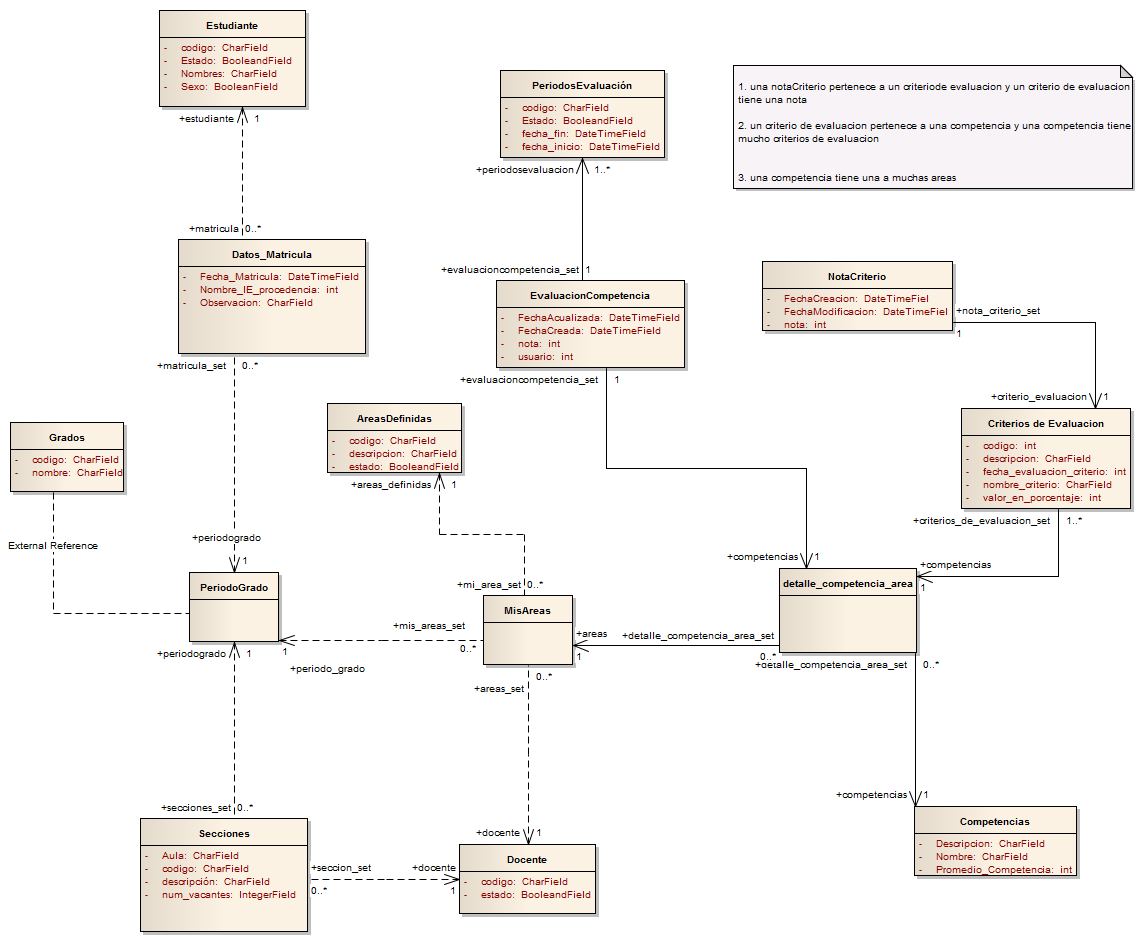
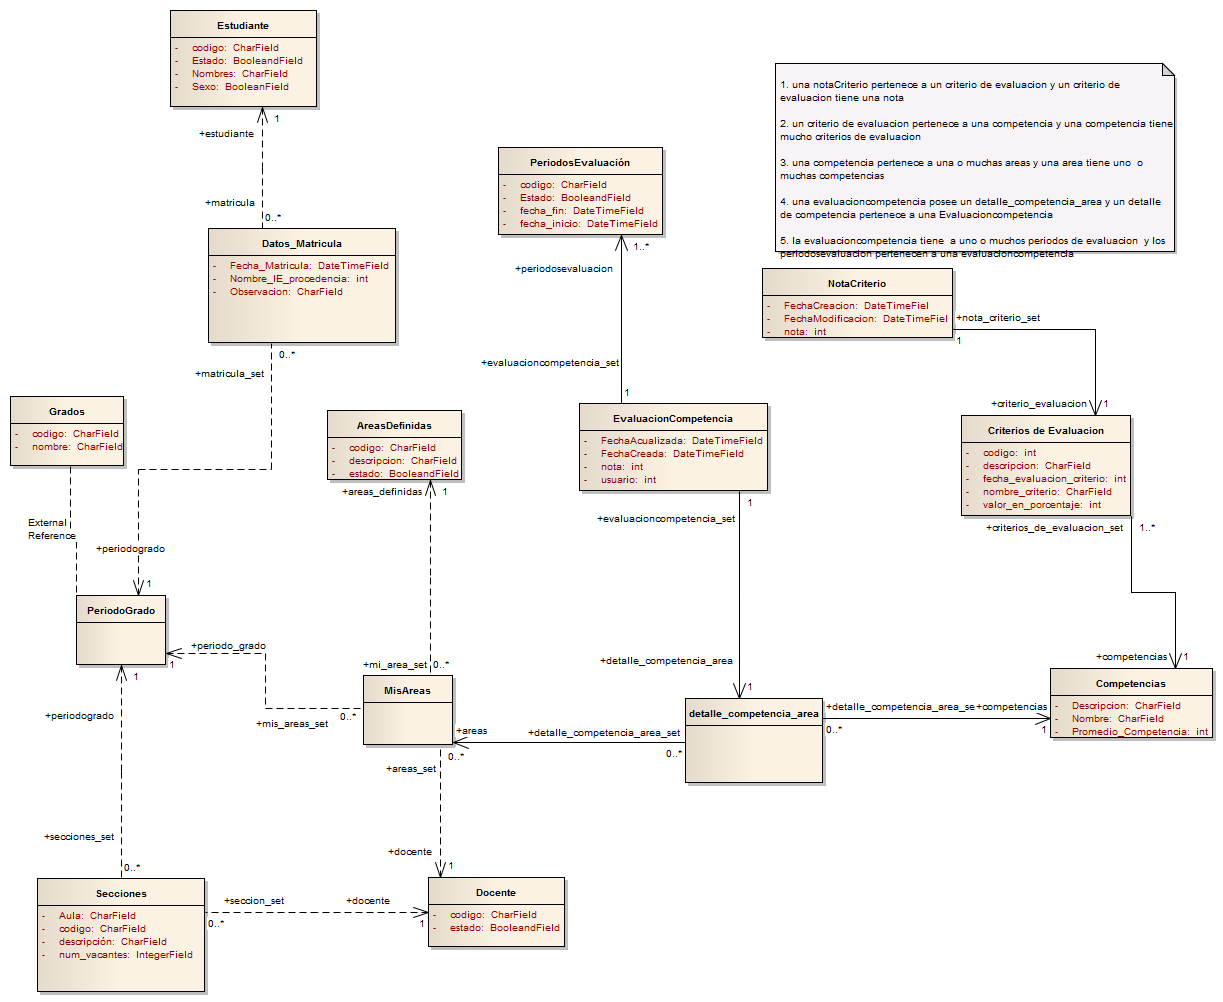
sssss

diff --git a/EARoot/EA1/EA1/EA2/EA35.htm b/EARoot/EA1/EA1/EA2/EA35.htm
@@ -82,28 +82,6 @@ function initPage(src) {
 			</tr>
 			<tr>
 				<td class="TableRowBottomDashed"  colspan="1">
-					<div class="DetailsDivParent"><img src="../../../../images/minus03.gif" align="absmiddle" id="DetailsImageAttributes42" onclick="parent.toggleDiv('detailsDIVAttributes42','DetailsImageAttributes42')" />Details:
-						<div id="detailsDIVAttributes42" class="DetailsDiv" >
-						<i></i>&nbsp;
-						</div>
-					</div>
-				</td>
-			</tr>			<tr>
-				<td width="100%" class="TableRow" valign="top"><i>private CharField</i><br /><strong>&nbsp;&nbsp;descripcion</strong></td>
-			</tr>
-			<tr>
-				<td class="TableRowBottomDashed"  colspan="1">
-					<div class="DetailsDivParent"><img src="../../../../images/minus03.gif" align="absmiddle" id="DetailsImageAttributes43" onclick="parent.toggleDiv('detailsDIVAttributes43','DetailsImageAttributes43')" />Details:
-						<div id="detailsDIVAttributes43" class="DetailsDiv" >
-						<i></i>&nbsp;
-						</div>
-					</div>
-				</td>
-			</tr>			<tr>
-				<td width="100%" class="TableRow" valign="top"><i>private int</i><br /><strong>&nbsp;&nbsp;fecha_evaluacion_criterio</strong></td>
-			</tr>
-			<tr>
-				<td class="TableRowBottomDashed"  colspan="1">
 					<div class="DetailsDivParent"><img src="../../../../images/minus03.gif" align="absmiddle" id="DetailsImageAttributes44" onclick="parent.toggleDiv('detailsDIVAttributes44','DetailsImageAttributes44')" />Details:
 						<div id="detailsDIVAttributes44" class="DetailsDiv" >
 						<i></i>&nbsp;
@@ -111,7 +89,7 @@ function initPage(src) {
 					</div>
 				</td>
 			</tr>			<tr>
-				<td width="100%" class="TableRow" valign="top"><i>private CharField</i><br /><strong>&nbsp;&nbsp;nombre_criterio</strong></td>
+				<td width="100%" class="TableRow" valign="top"><i>private CharField</i><br /><strong>&nbsp;&nbsp;descripcion</strong></td>
 			</tr>
 			<tr>
 				<td class="TableRowBottomDashed"  colspan="1">
@@ -122,12 +100,34 @@ function initPage(src) {
 					</div>
 				</td>
 			</tr>			<tr>
-				<td width="100%" class="TableRow" valign="top"><i>private int</i><br /><strong>&nbsp;&nbsp;valor_en_porcentaje</strong></td>
+				<td width="100%" class="TableRow" valign="top"><i>private int</i><br /><strong>&nbsp;&nbsp;fecha_evaluacion_criterio</strong></td>
 			</tr>
 			<tr>
 				<td class="TableRowBottomDashed"  colspan="1">
 					<div class="DetailsDivParent"><img src="../../../../images/minus03.gif" align="absmiddle" id="DetailsImageAttributes46" onclick="parent.toggleDiv('detailsDIVAttributes46','DetailsImageAttributes46')" />Details:
 						<div id="detailsDIVAttributes46" class="DetailsDiv" >
+						<i></i>&nbsp;
+						</div>
+					</div>
+				</td>
+			</tr>			<tr>
+				<td width="100%" class="TableRow" valign="top"><i>private CharField</i><br /><strong>&nbsp;&nbsp;nombre_criterio</strong></td>
+			</tr>
+			<tr>
+				<td class="TableRowBottomDashed"  colspan="1">
+					<div class="DetailsDivParent"><img src="../../../../images/minus03.gif" align="absmiddle" id="DetailsImageAttributes47" onclick="parent.toggleDiv('detailsDIVAttributes47','DetailsImageAttributes47')" />Details:
+						<div id="detailsDIVAttributes47" class="DetailsDiv" >
+						<i></i>&nbsp;
+						</div>
+					</div>
+				</td>
+			</tr>			<tr>
+				<td width="100%" class="TableRow" valign="top"><i>private int</i><br /><strong>&nbsp;&nbsp;valor_en_porcentaje</strong></td>
+			</tr>
+			<tr>
+				<td class="TableRowBottomDashed"  colspan="1">
+					<div class="DetailsDivParent"><img src="../../../../images/minus03.gif" align="absmiddle" id="DetailsImageAttributes48" onclick="parent.toggleDiv('detailsDIVAttributes48','DetailsImageAttributes48')" />Details:
+						<div id="detailsDIVAttributes48" class="DetailsDiv" >
 						<i></i>&nbsp;
 						</div>
 					</div>
@@ -144,7 +144,7 @@ function initPage(src) {
 				</tr>
 				<tr>
 					<td width="40%" class="TableRow" valign="top">
-						<a href="EA37.htm">detalle_competencia_area</a><br />
+						<a href="EA34.htm">Competencias</a><br />
 						Clase &nbsp;
 					</td>
 					<td width="30%" class="TableRow" valign="top">
@@ -158,8 +158,8 @@ function initPage(src) {
 				</tr>
 				<tr>
 					<td class="TableRowBottomDashed"  colspan="3">
-						<div class="DetailsDivParent"><img src="../../../../images/minus03.gif" align="absmiddle" id="DetailsImageLink48" onclick="parent.toggleDiv('detailsDIVLink48','DetailsImageLink48')" />Details:
-							<div id="detailsDIVLink48" class="DetailsDiv" >
+						<div class="DetailsDivParent"><img src="../../../../images/minus03.gif" align="absmiddle" id="DetailsImageLink50" onclick="parent.toggleDiv('detailsDIVLink50','DetailsImageLink50')" />Details:
+							<div id="detailsDIVLink50" class="DetailsDiv" >
 							&nbsp;
 							</div>
 						</div>
@@ -191,8 +191,8 @@ function initPage(src) {
 				</tr>
 				<tr>
 					<td class="TableRowBottomDashed"  colspan="3">
-						<div class="DetailsDivParent"><img src="../../../../images/minus03.gif" align="absmiddle" id="DetailsImageLink49" onclick="parent.toggleDiv('detailsDIVLink49','DetailsImageLink49')" />Details:
-							<div id="detailsDIVLink49" class="DetailsDiv" >
+						<div class="DetailsDivParent"><img src="../../../../images/minus03.gif" align="absmiddle" id="DetailsImageLink51" onclick="parent.toggleDiv('detailsDIVLink51','DetailsImageLink51')" />Details:
+							<div id="detailsDIVLink51" class="DetailsDiv" >
 							&nbsp;
 							</div>
 						</div>

diff --git a/EARoot/EA1/EA1/EA2/EA37.htm b/EARoot/EA1/EA1/EA2/EA37.htm
@@ -93,8 +93,8 @@ function initPage(src) {
 				</tr>
 				<tr>
 					<td class="TableRowBottomDashed"  colspan="3">
-						<div class="DetailsDivParent"><img src="../../../../images/minus03.gif" align="absmiddle" id="DetailsImageLink51" onclick="parent.toggleDiv('detailsDIVLink51','DetailsImageLink51')" />Details:
-							<div id="detailsDIVLink51" class="DetailsDiv" >
+						<div class="DetailsDivParent"><img src="../../../../images/minus03.gif" align="absmiddle" id="DetailsImageLink53" onclick="parent.toggleDiv('detailsDIVLink53','DetailsImageLink53')" />Details:
+							<div id="detailsDIVLink53" class="DetailsDiv" >
 							&nbsp;
 							</div>
 						</div>
@@ -116,8 +116,8 @@ function initPage(src) {
 				</tr>
 				<tr>
 					<td class="TableRowBottomDashed"  colspan="3">
-						<div class="DetailsDivParent"><img src="../../../../images/minus03.gif" align="absmiddle" id="DetailsImageLink53" onclick="parent.toggleDiv('detailsDIVLink53','DetailsImageLink53')" />Details:
-							<div id="detailsDIVLink53" class="DetailsDiv" >
+						<div class="DetailsDivParent"><img src="../../../../images/minus03.gif" align="absmiddle" id="DetailsImageLink55" onclick="parent.toggleDiv('detailsDIVLink55','DetailsImageLink55')" />Details:
+							<div id="detailsDIVLink55" class="DetailsDiv" >
 							&nbsp;
 							</div>
 						</div>
@@ -143,37 +143,14 @@ function initPage(src) {
 						&nbsp;
 					</td>
 					<td width="30%" class="TableRow" valign="top">
-						<strong>Name:</strong> competencias<br />
+						<strong>Name:</strong> detalle_competencia_area<br />
 						&nbsp;	
 					</td>
 				</tr>
 				<tr>
 					<td class="TableRowBottomDashed"  colspan="3">
-						<div class="DetailsDivParent"><img src="../../../../images/minus03.gif" align="absmiddle" id="DetailsImageLink56" onclick="parent.toggleDiv('detailsDIVLink56','DetailsImageLink56')" />Details:
-							<div id="detailsDIVLink56" class="DetailsDiv" >
-							&nbsp;
-							</div>
-						</div>
-					</td>
-				</tr>
-				<tr>
-					<td width="40%" class="TableRow" valign="top">
-						<a href="EA35.htm">Criterios de Evaluacion</a><br />
-						Clase &nbsp;
-					</td>
-					<td width="30%" class="TableRow" valign="top">
-						<strong>Name:</strong> criterios_de_evaluacion_set<br />
-						&nbsp;
-					</td>
-					<td width="30%" class="TableRow" valign="top">
-						<strong>Name:</strong> competencias<br />
-						&nbsp;	
-					</td>
-				</tr>
-				<tr>
-					<td class="TableRowBottomDashed"  colspan="3">
-						<div class="DetailsDivParent"><img src="../../../../images/minus03.gif" align="absmiddle" id="DetailsImageLink58" onclick="parent.toggleDiv('detailsDIVLink58','DetailsImageLink58')" />Details:
-							<div id="detailsDIVLink58" class="DetailsDiv" >
+						<div class="DetailsDivParent"><img src="../../../../images/minus03.gif" align="absmiddle" id="DetailsImageLink57" onclick="parent.toggleDiv('detailsDIVLink57','DetailsImageLink57')" />Details:
+							<div id="detailsDIVLink57" class="DetailsDiv" >
 							&nbsp;
 							</div>
 						</div>

diff --git a/EARoot/EA1/EA1/EA2/EA31.htm b/EARoot/EA1/EA1/EA2/EA31.htm
@@ -19,21 +19,21 @@ function initPage(src) {
 <img src="EA32.png" usemap="#EA32" border="0" />
 
 <MAP NAME="EA32">
-<area shape="rect" coords="779,568,917,653" href="EA37.htm">
-<area shape="rect" coords="327,403,462,473" href="../EA4/EA1/EA68.htm">
-<area shape="rect" coords="189,572,279,642" href="../EA4/EA1/EA84.htm">
-<area shape="rect" coords="733,65,1132,188" href="EA33.htm">
-<area shape="rect" coords="762,261,953,331" href="EA40.htm">
-<area shape="rect" coords="496,280,685,368" href="EA39.htm">
-<area shape="rect" coords="159,10,306,107" href="../EA4/EA1/EA77.htm">
-<area shape="rect" coords="10,422,124,492" href="../EA4/EA1/EA78.htm">
-<area shape="rect" coords="140,818,308,932" href="../EA4/EA1/EA87.htm">
-<area shape="rect" coords="459,844,596,914" href="../EA4/EA1/EA76.htm">
-<area shape="rect" coords="500,70,665,158" href="../EA4/EA1/EA85.htm">
-<area shape="rect" coords="178,239,366,354" href="../EA1/EA1/EA22.htm">
-<area shape="rect" coords="961,408,1131,509" href="EA35.htm">
-<area shape="rect" coords="914,806,1077,876" href="EA34.htm">
-<area shape="rect" coords="483,595,573,665" href="../EA4/EA1/EA81.htm">
+<area shape="rect" coords="685,698,823,783" href="EA37.htm">
+<area shape="rect" coords="327,410,462,480" href="../EA4/EA1/EA68.htm">
+<area shape="rect" coords="76,595,166,665" href="../EA4/EA1/EA84.htm">
+<area shape="rect" coords="775,63,1174,251" href="EA33.htm">
+<area shape="rect" coords="762,268,953,338" href="EA40.htm">
+<area shape="rect" coords="579,403,768,491" href="EA39.htm">
+<area shape="rect" coords="170,10,317,107" href="../EA4/EA1/EA77.htm">
+<area shape="rect" coords="10,396,124,466" href="../EA4/EA1/EA78.htm">
+<area shape="rect" coords="37,878,205,992" href="../EA4/EA1/EA87.htm">
+<area shape="rect" coords="428,877,565,947" href="../EA4/EA1/EA76.htm">
+<area shape="rect" coords="498,147,663,235" href="../EA4/EA1/EA85.htm">
+<area shape="rect" coords="208,228,396,343" href="../EA1/EA1/EA22.htm">
+<area shape="rect" coords="961,415,1131,516" href="EA35.htm">
+<area shape="rect" coords="1050,668,1213,738" href="EA34.htm">
+<area shape="rect" coords="363,675,453,745" href="../EA4/EA1/EA81.htm">
 </MAP>
 
 	<div class="ObjectTitle">Notas y cursos : lógico diagram</div>
@@ -44,7 +44,7 @@ function initPage(src) {
 		</tr>
 		<tr>
 			<td width="15%" class="ObjectDetailsTopic">Modified:</td>
-			<td width="85%" class="ObjectDetailsValue">12/09/2017 09:51:29 p.m.</td>
+			<td width="85%" class="ObjectDetailsValue">13/09/2017 08:51:08 a.m.</td>
 		</tr>
 		<tr style="padding-top: 10px;">
 			<td width="15%" class="ObjectDetailsTopic"><img src="../../../../images/plus03.gif" align="absmiddle" id="proj" onclick="parent.toggleData(this.id)" />Project:</td>

diff --git a/EARoot/EA1/EA1/EA2/EA33.htm b/EARoot/EA1/EA1/EA2/EA33.htm
@@ -24,7 +24,7 @@ function initPage(src) {
 		</tr>
 		<tr>
 			<td class="ObjectDetailsTopic">Modified:</td>
-			<td class="ObjectDetailsValue">12/09/2017 05:36:58 p.m.</td>
+			<td class="ObjectDetailsValue">13/09/2017 08:45:47 a.m.</td>
 		</tr>
 		<tr style="height: 10px"><td colspan="2"></td></tr>
 		<tr>
@@ -64,7 +64,7 @@ function initPage(src) {
 			<td class="ObjectDetailsValue"><a href="EA31.htm">Notas y cursos</a></td>
 		</tr>
 	</table>
-	<div class="ObjectDetailsNotes">&lt;p&gt;1. una notaCriterio pertenece a un criteriode evaluacion y un criterio de evaluacion tiene una nota &lt;br /&gt;&lt;/p&gt;&lt;p&gt;&lt;br /&gt;&lt;/p&gt;&lt;p&gt;2. un criterio de evaluacion pertenece a una competencia y una competencia tiene mucho criterios de evaluacion&lt;br /&gt;&lt;/p&gt;&lt;p&gt;&lt;br /&gt;&lt;/p&gt;&lt;p&gt;&lt;br /&gt;&lt;/p&gt;&lt;p&gt;3. una competencia tiene una a muchas areas &lt;br /&gt;&lt;/p&gt;</div>
+	<div class="ObjectDetailsNotes">&lt;p&gt;1. una notaCriterio pertenece a un criterio de evaluacion y un criterio de evaluacion tiene una nota &lt;br /&gt;&lt;/p&gt;&lt;p&gt;&lt;br /&gt;&lt;/p&gt;&lt;p&gt;2. un criterio de evaluacion pertenece a una competencia y una competencia tiene mucho criterios de evaluacion&lt;br /&gt;&lt;/p&gt;&lt;p&gt;&lt;br /&gt;&lt;/p&gt;&lt;p&gt;3. una competencia pertenece a una o muchas areas y una area tiene uno&#160; o muchas competencias&lt;br /&gt;&lt;/p&gt;&lt;p&gt;&lt;br /&gt;&lt;/p&gt;&lt;p&gt;4. una evaluacioncompetencia posee un detalle_competencia_area y un detalle de competencia pertenece a una Evaluacioncompetencia&lt;br /&gt;&lt;/p&gt;&lt;p&gt;&lt;br /&gt;&lt;/p&gt;&lt;p&gt;5. la evaluacioncompetencia tiene&#160; a uno o muchos periodos de evaluacion&#160; y los periodosevaluacion pertenecen a una evaluacioncompetencia&lt;br /&gt;&lt;/p&gt;</div>
 
 <div class="pageFooter"></div>
  

diff --git a/EARoot/EA1/EA1/EA2/EA34.htm b/EARoot/EA1/EA1/EA2/EA34.htm
@@ -120,6 +120,29 @@ function initPage(src) {
 				</tr>
 				<tr>
 					<td width="40%" class="TableRow" valign="top">
+						<a href="EA35.htm">Criterios de Evaluacion</a><br />
+						Clase &nbsp;
+					</td>
+					<td width="30%" class="TableRow" valign="top">
+						<strong>Name:</strong> criterios_de_evaluacion_set<br />
+						&nbsp;
+					</td>
+					<td width="30%" class="TableRow" valign="top">
+						<strong>Name:</strong> competencias<br />
+						&nbsp;	
+					</td>
+				</tr>
+				<tr>
+					<td class="TableRowBottomDashed"  colspan="3">
+						<div class="DetailsDivParent"><img src="../../../../images/minus03.gif" align="absmiddle" id="DetailsImageLink42" onclick="parent.toggleDiv('detailsDIVLink42','DetailsImageLink42')" />Details:
+							<div id="detailsDIVLink42" class="DetailsDiv" >
+							&nbsp;
+							</div>
+						</div>
+					</td>
+				</tr>
+				<tr>
+					<td width="40%" class="TableRow" valign="top">
 						<a href="EA37.htm">detalle_competencia_area</a><br />
 						Clase &nbsp;
 					</td>
@@ -134,8 +157,8 @@ function initPage(src) {
 				</tr>
 				<tr>
 					<td class="TableRowBottomDashed"  colspan="3">
-						<div class="DetailsDivParent"><img src="../../../../images/minus03.gif" align="absmiddle" id="DetailsImageLink41" onclick="parent.toggleDiv('detailsDIVLink41','DetailsImageLink41')" />Details:
-							<div id="detailsDIVLink41" class="DetailsDiv" >
+						<div class="DetailsDivParent"><img src="../../../../images/minus03.gif" align="absmiddle" id="DetailsImageLink43" onclick="parent.toggleDiv('detailsDIVLink43','DetailsImageLink43')" />Details:
+							<div id="detailsDIVLink43" class="DetailsDiv" >
 							&nbsp;
 							</div>
 						</div>

diff --git a/EARoot/EA1/EA1/EA4/EA1/EA77.htm b/EARoot/EA1/EA1/EA4/EA1/EA77.htm
@@ -61,7 +61,7 @@ function initPage(src) {
 		</tr>
 		<tr id="adv01" style="display: none;">
 			<td class="ObjectDetailsTopic" style="padding-left: 18px;">Appears In:</td>
-			<td class="ObjectDetailsValue"><a href="../../EA6/EA107.htm">Class Model</a>, <a href="../../EA2/EA31.htm">Notas y cursos</a>, <a href="../../EA3/EA1/EA43.htm">Class Model</a>, <a href="EA65.htm">Models</a>, <a href="../../EA1/EA1/EA17.htm">matricula</a>, <a href="../../EA1/EA2/EA24.htm">registro de estudiantes</a></td>
+			<td class="ObjectDetailsValue"><a href="../../EA6/EA107.htm">Class Model</a>, <a href="../../EA3/EA1/EA43.htm">Class Model</a>, <a href="EA65.htm">Models</a>, <a href="../../EA1/EA1/EA17.htm">matricula</a>, <a href="../../EA1/EA2/EA24.htm">registro de estudiantes</a>, <a href="../../EA2/EA31.htm">Notas y cursos</a></td>
 		</tr>
 	</table>
 	

diff --git a/EARoot/EA1/EA1/EA4/EA1/EA87.htm b/EARoot/EA1/EA1/EA4/EA1/EA87.htm
@@ -61,7 +61,7 @@ function initPage(src) {
 		</tr>
 		<tr id="adv01" style="display: none;">
 			<td class="ObjectDetailsTopic" style="padding-left: 18px;">Appears In:</td>
-			<td class="ObjectDetailsValue"><a href="../../EA8/EA130.htm">Class Model</a>, <a href="../../EA2/EA31.htm">Notas y cursos</a>, <a href="../../EA3/EA1/EA43.htm">Class Model</a>, <a href="EA65.htm">Models</a>, <a href="../../EA1/EA1/EA17.htm">matricula</a></td>
+			<td class="ObjectDetailsValue"><a href="../../EA8/EA130.htm">Class Model</a>, <a href="../../EA3/EA1/EA43.htm">Class Model</a>, <a href="EA65.htm">Models</a>, <a href="../../EA1/EA1/EA17.htm">matricula</a>, <a href="../../EA2/EA31.htm">Notas y cursos</a></td>
 		</tr>
 	</table>
 	

diff --git a/EARoot/EA1/EA1/EA1/EA1/EA22.htm b/EARoot/EA1/EA1/EA1/EA1/EA22.htm
@@ -61,7 +61,7 @@ function initPage(src) {
 		</tr>
 		<tr id="adv01" style="display: none;">
 			<td class="ObjectDetailsTopic" style="padding-left: 18px;">Appears In:</td>
-			<td class="ObjectDetailsValue"><a href="../../EA8/EA130.htm">Class Model</a>, <a href="../../EA2/EA31.htm">Notas y cursos</a>, <a href="../../EA3/EA1/EA43.htm">Class Model</a>, <a href="EA17.htm">matricula</a></td>
+			<td class="ObjectDetailsValue"><a href="../../EA8/EA130.htm">Class Model</a>, <a href="../../EA3/EA1/EA43.htm">Class Model</a>, <a href="EA17.htm">matricula</a>, <a href="../../EA2/EA31.htm">Notas y cursos</a></td>
 		</tr>
 	</table>
 	

diff --git a/EARoot/EA1/EA1/EA4/EA1/EA78.htm b/EARoot/EA1/EA1/EA4/EA1/EA78.htm
@@ -61,7 +61,7 @@ function initPage(src) {
 		</tr>
 		<tr id="adv01" style="display: none;">
 			<td class="ObjectDetailsTopic" style="padding-left: 18px;">Appears In:</td>
-			<td class="ObjectDetailsValue"><a href="../../EA2/EA31.htm">Notas y cursos</a>, <a href="../../EA3/EA1/EA43.htm">Class Model</a>, <a href="EA65.htm">Models</a>, <a href="../../EA1/EA1/EA17.htm">matricula</a></td>
+			<td class="ObjectDetailsValue"><a href="../../EA3/EA1/EA43.htm">Class Model</a>, <a href="EA65.htm">Models</a>, <a href="../../EA1/EA1/EA17.htm">matricula</a>, <a href="../../EA2/EA31.htm">Notas y cursos</a></td>
 		</tr>
 	</table>
 	

diff --git a/EARoot/EA1/EA1/EA4/EA1/EA76.htm b/EARoot/EA1/EA1/EA4/EA1/EA76.htm
@@ -61,7 +61,7 @@ function initPage(src) {
 		</tr>
 		<tr id="adv01" style="display: none;">
 			<td class="ObjectDetailsTopic" style="padding-left: 18px;">Appears In:</td>
-			<td class="ObjectDetailsValue"><a href="../../EA2/EA31.htm">Notas y cursos</a>, <a href="../../EA3/EA1/EA43.htm">Class Model</a>, <a href="EA65.htm">Models</a></td>
+			<td class="ObjectDetailsValue"><a href="../../EA3/EA1/EA43.htm">Class Model</a>, <a href="EA65.htm">Models</a>, <a href="../../EA2/EA31.htm">Notas y cursos</a></td>
 		</tr>
 	</table>
 	

diff --git a/EARoot/EA1/EA1/EA4/EA1/EA81.htm b/EARoot/EA1/EA1/EA4/EA1/EA81.htm
@@ -61,7 +61,7 @@ function initPage(src) {
 		</tr>
 		<tr id="adv01" style="display: none;">
 			<td class="ObjectDetailsTopic" style="padding-left: 18px;">Appears In:</td>
-			<td class="ObjectDetailsValue"><a href="../../EA2/EA31.htm">Notas y cursos</a>, <a href="../../EA3/EA1/EA43.htm">Class Model</a>, <a href="EA65.htm">Models</a></td>
+			<td class="ObjectDetailsValue"><a href="../../EA3/EA1/EA43.htm">Class Model</a>, <a href="EA65.htm">Models</a>, <a href="../../EA2/EA31.htm">Notas y cursos</a></td>
 		</tr>
 	</table>
 	

diff --git a/EARoot/EA1/EA1/EA4/EA1/EA84.htm b/EARoot/EA1/EA1/EA4/EA1/EA84.htm
@@ -61,7 +61,7 @@ function initPage(src) {
 		</tr>
 		<tr id="adv01" style="display: none;">
 			<td class="ObjectDetailsTopic" style="padding-left: 18px;">Appears In:</td>
-			<td class="ObjectDetailsValue"><a href="../../EA2/EA31.htm">Notas y cursos</a>, <a href="EA65.htm">Models</a>, <a href="../../EA1/EA1/EA17.htm">matricula</a></td>
+			<td class="ObjectDetailsValue"><a href="EA65.htm">Models</a>, <a href="../../EA1/EA1/EA17.htm">matricula</a>, <a href="../../EA2/EA31.htm">Notas y cursos</a></td>
 		</tr>
 	</table>
 	
